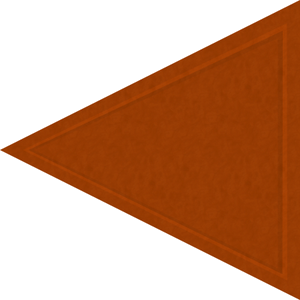
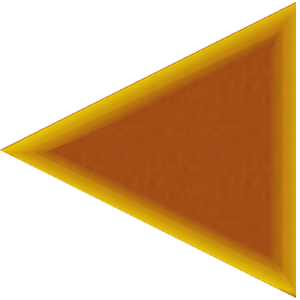
Replaces the Highlighted piece assets
New assets for the select menu, as well the select menu now return the
number of pieces in the stack to select.

Changed region(s): [[0.0, 0.0, 1.0, 1.0]]

diff --git a/Tak/core/src/com/mygdx/game/GameLogic/Dragable.java b/Tak/core/src/com/mygdx/game/GameLogic/Dragable.java
@@ -35,7 +35,7 @@ public class Dragable extends Image
 
     private int xPos;
     private int yPos;
-    private int selected;
+    private Integer selected;
 
     private GameBoard gameBoard;
     private StackScreen stackScreen;
@@ -51,7 +51,6 @@ public class Dragable extends Image
         inPlay = false;
         xPos= -1;
         yPos= -1;
-
 
     }
 
@@ -69,10 +68,12 @@ public class Dragable extends Image
         xPos = x;
         yPos = y;
         inPlay = true;
+        selected = 0;
     }
 
     public int getSelected(){return selected;}
-    public void setSelected(int s){selected = s;}
+    public void setSelected(int s){selected = s; }
+
 
     public void makeDraggable()
     {
@@ -81,19 +82,22 @@ public class Dragable extends Image
         final DragAndDrop dnd = new DragAndDrop();
 
 
+
         this.addListener(new ClickListener(){
         public boolean touchDown(InputEvent event, float x, float y, int pointer, int button)
         {
             if(inPlay) {
                 if (gameBoard.isEmpty(piece.getGridXPos(), piece.getGridYPos()) == false) {
                     if (gameBoard.getStack(piece.getGridXPos(), piece.getGridYPos()).size() > 1) {
-                        screen.stackMenu(gameBoard,piece.getGridXPos(), piece.getGridYPos());
+                     screen.stackMenu(gameBoard,piece.getGridXPos(), piece.getGridYPos(),piece);
 
                     }
                 }
             }
             return true;
         }});
+
+
 
         dnd.addSource(new DragAndDrop.Source(piece)
         {

diff --git a/Tak/core/src/com/mygdx/game/Screens/StackScreen.java b/Tak/core/src/com/mygdx/game/Screens/StackScreen.java
@@ -106,7 +106,7 @@ public class StackScreen
 
     }
 
-    public void initStack(GameBoard board, int x, int y){ //TODO TAKES IN AN ARAY OF GAME PIECES
+    public void initStack(GameBoard board, int x, int y){
 
        ArrayDeque<GamePiece> array = board.getStack(x,y);
         Iterator <GamePiece> tmp = array.iterator();
@@ -219,7 +219,7 @@ public class StackScreen
 
 
 
-    public void selectionOptions(GameBoard board, int x, int y)
+    public void selectionOptions(GameBoard board, int x, int y,final Dragable p)
     {
 
 
@@ -263,6 +263,7 @@ public class StackScreen
             public void changed(ChangeEvent event, Actor actor)
             {
                //piece.setSelected(selected);
+                p.setSelected(selected);
                 clear();
             }
         });

diff --git a/Tak/core/src/com/mygdx/game/Screens/PlayScreen.java b/Tak/core/src/com/mygdx/game/Screens/PlayScreen.java
@@ -139,8 +139,8 @@ public class PlayScreen implements Screen
         //input ebola here
     }
 
-    public void stackMenu(GameBoard board, int x, int y){
-        stackScreen.selectionOptions(board,x,y);
+    public void stackMenu(GameBoard board, int x, int y,Dragable p){
+        stackScreen.selectionOptions(board,x,y,p);
     }
 
     private void initGamePieces(int bSize)
